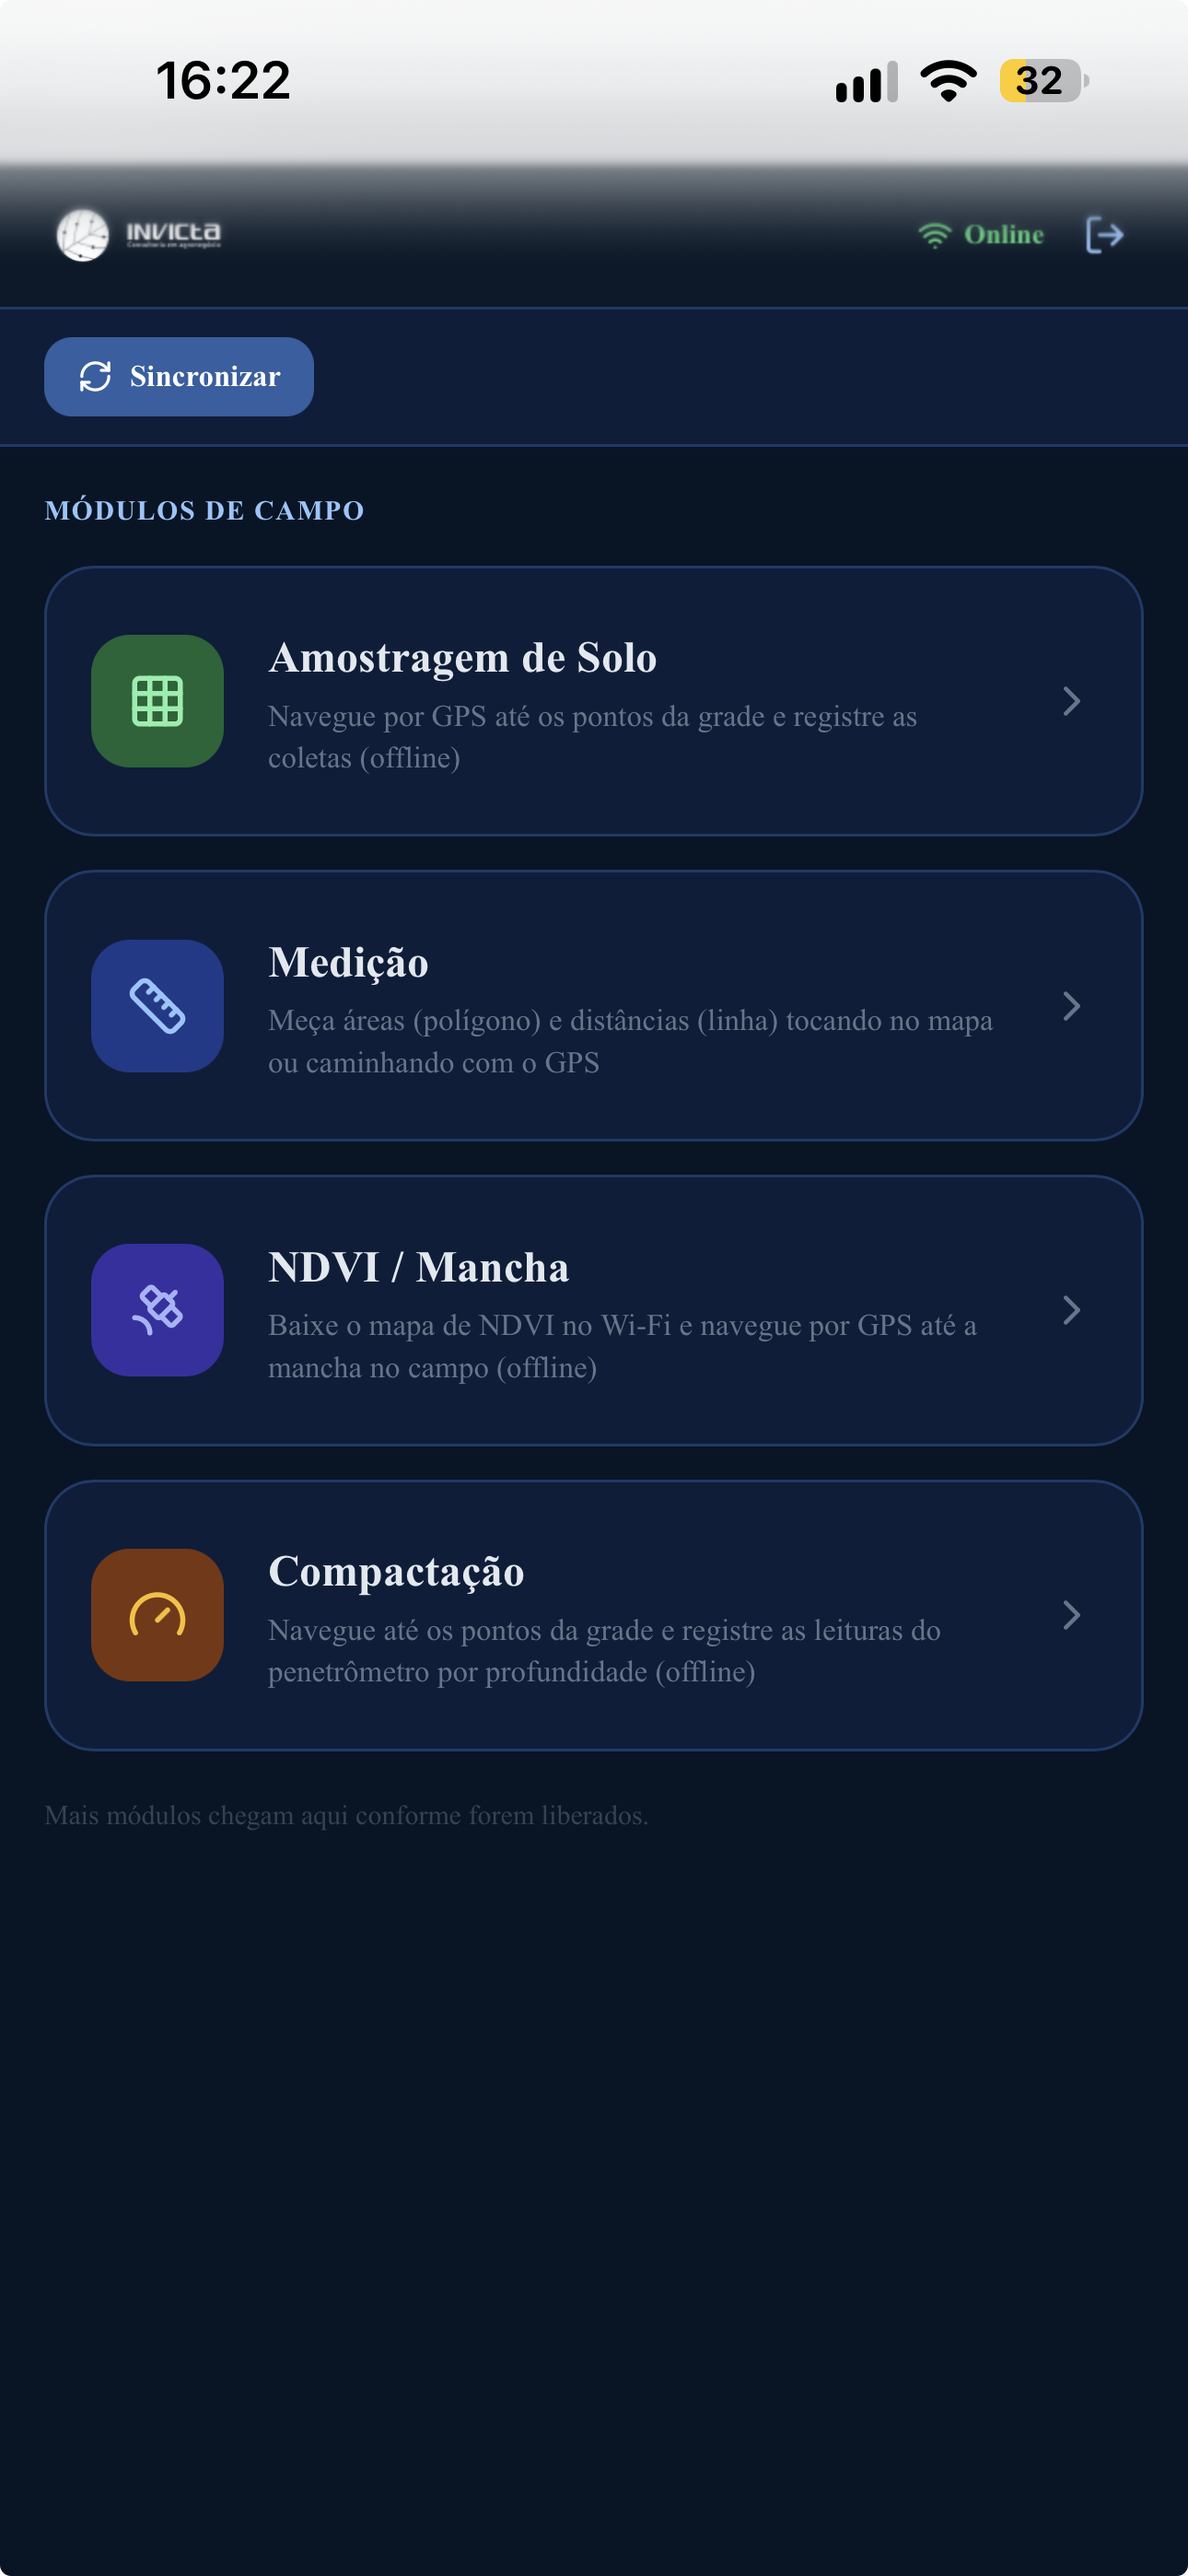
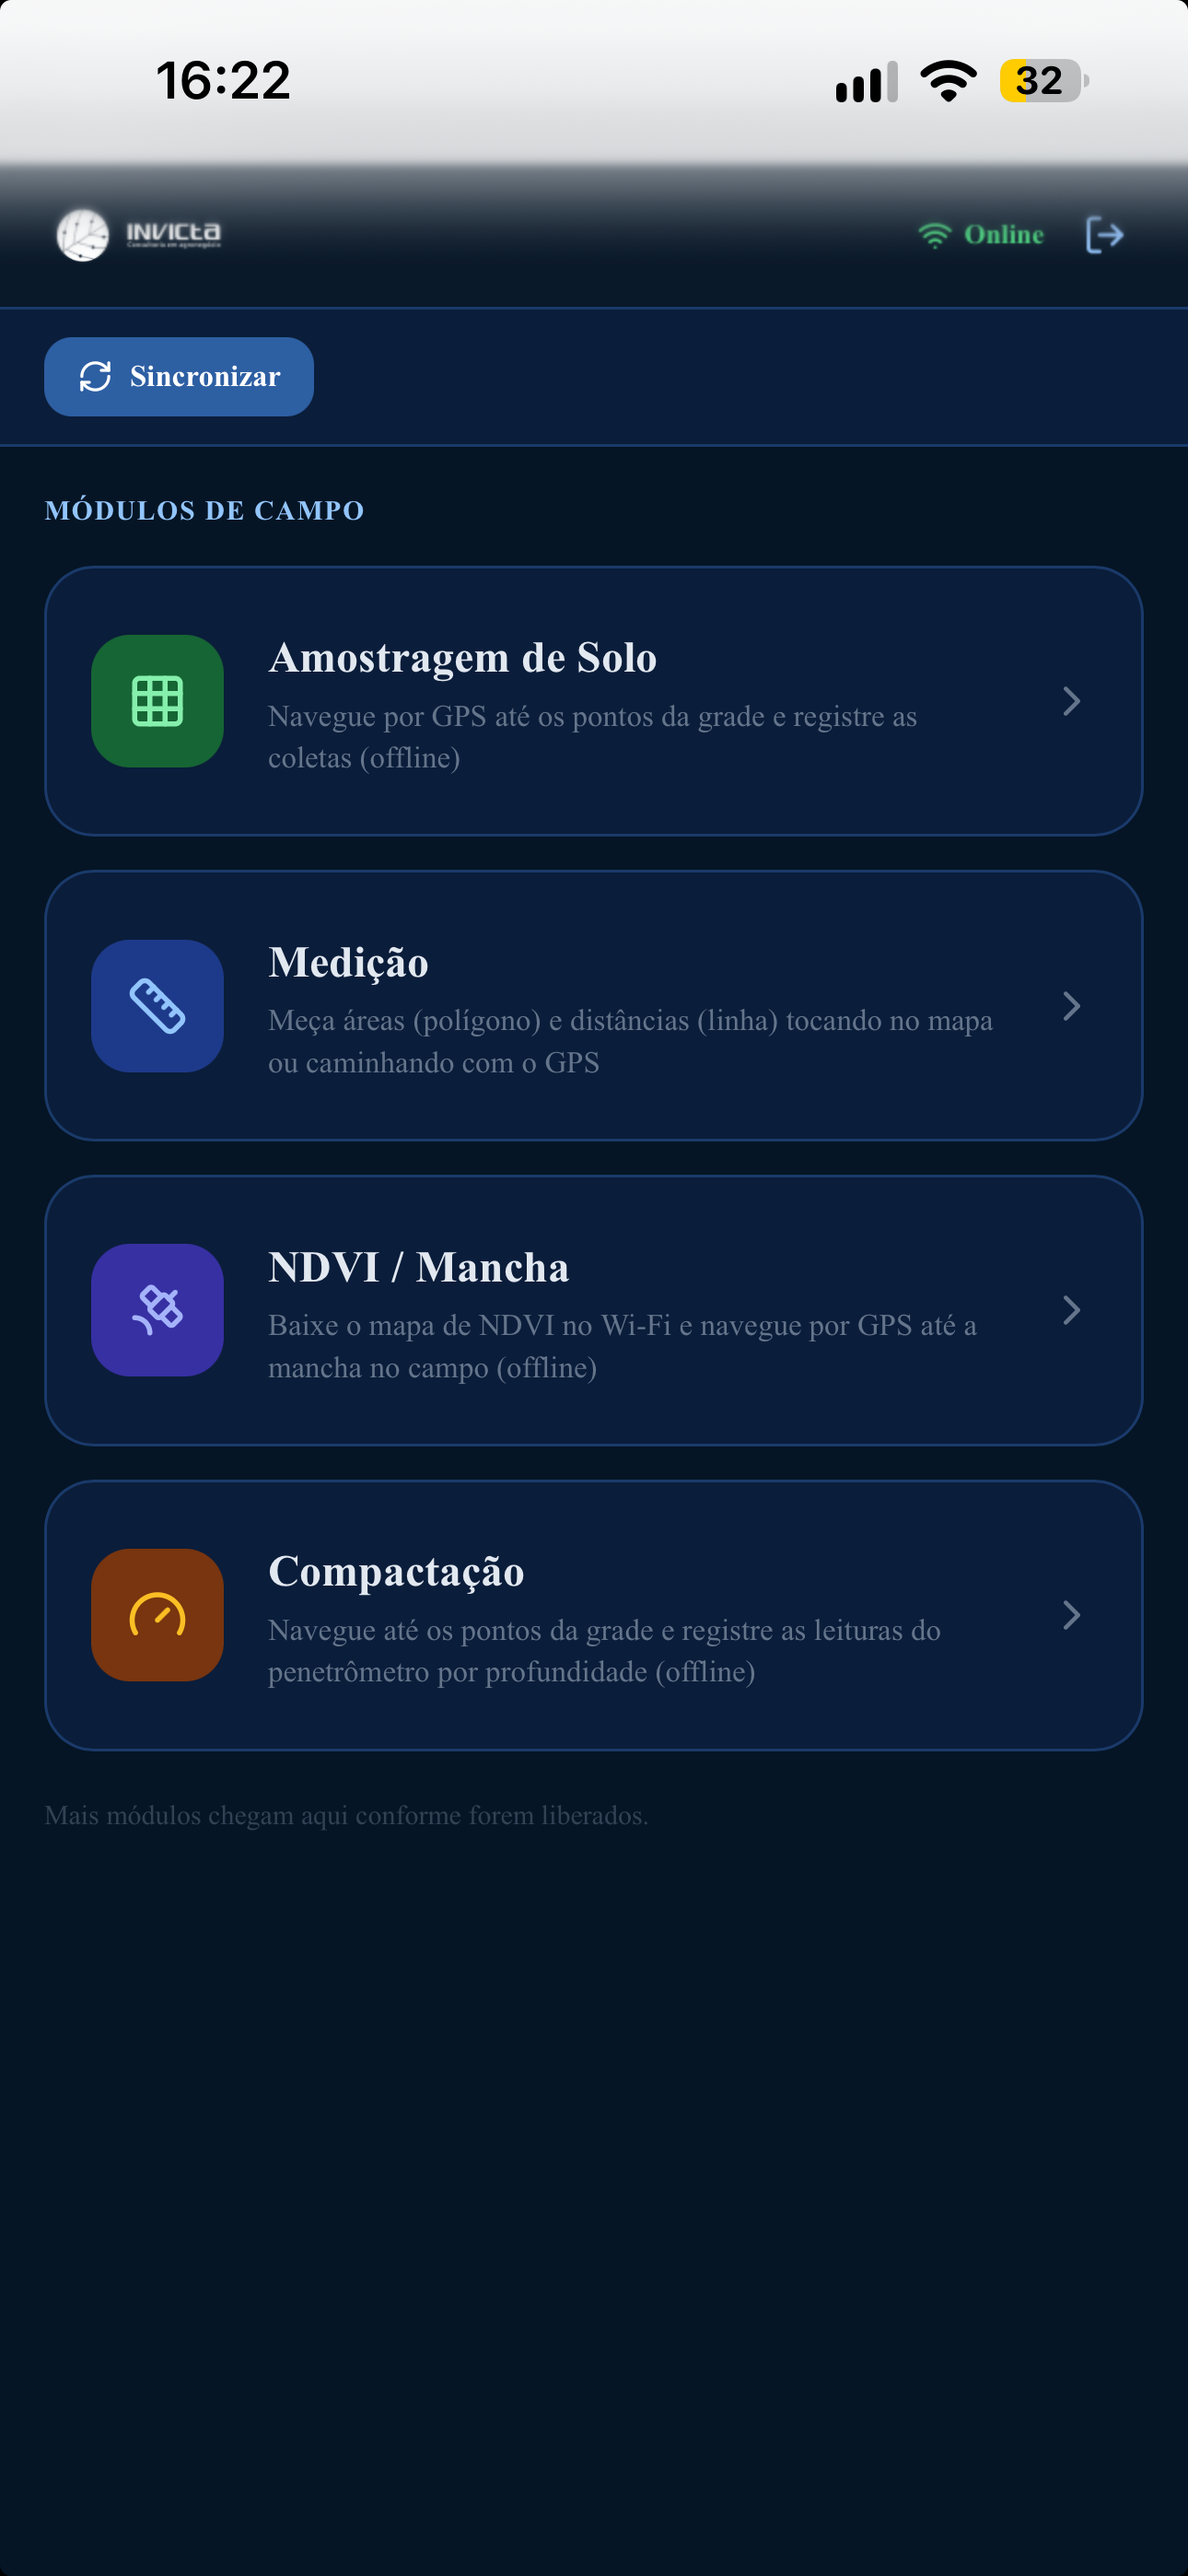
loja: capturas iOS sem canal alfa + ficha da App Store completa (falta só a build)
A Apple aceitou os PNGs no upload e depois marcou os quatro com erro de canal
alfa, o que travava o envio. Achatados para RGB e reenviados, na mesma ordem.

Preenchidos no App Store Connect: subtítulo, categorias (Negócios / Utilidades),
classificação etária 4+, direitos de conteúdo, preço gratuito e disponibilidade
só no Brasil. A validação do 'Adicionar para revisão' agora recusa apenas por
falta de compilação.

Changed region(s): [[0.062, 0.2489, 0.186, 0.3112], [0.8372, 0.0, 0.8682, 0.0622], [0.9922, 0.9957, 1.0, 1.0]]

diff --git a/loja/ficha-app-store.md b/loja/ficha-app-store.md
@@ -3,7 +3,7 @@
 Textos e respostas prontos para copiar no App Store Connect. Cada bloco diz onde
 ele entra. Os limites de caracteres são os que a loja impõe.
 
-## Estado no App Store Connect (17/09/2026)
+## Estado no App Store Connect (18/09/2026)
 
 ```
 Apple ID do app   6813176446
@@ -12,14 +12,36 @@ Time              ANQMNT4RTB (WR CONSULTORIA AGRICOLA SS)
 Versão            3.1.0 · Preparar para envio
 ```
 
+O "Adicionar para revisão" em 18/09 recusou **só** por falta de compilação —
+todo o resto passou na validação da Apple.
+
 | Já preenchido por lá | Falta |
 |---|---|
-| Texto promocional | **Senha da conta de revisão** (Informações para iniciar sessão) |
-| Descrição | **Privacidade do app** (Nutrition Labels — tabela abaixo) |
-| Palavras-chave | **Classificação etária** |
-| URL de suporte e de marketing | **Preços e disponibilidade** |
-| Versão (3.1.0) e Copyright | **Compilação** (Archive + upload pelo Xcode) |
-| **4 capturas de tela** (6,9 pol.) | **Remarcar o vínculo da fazenda demo** |
+| Texto promocional, descrição, palavras-chave | **Compilação** (Archive + upload pelo Xcode) |
+| URL de suporte e de marketing | **Remarcar o vínculo da fazenda demo** (antes do envio) |
+| Versão (3.1.0) e Copyright | Selecionar a build e **Adicionar para revisão** |
+| **4 capturas de tela** (6,9 pol., sem alfa) | |
+| Informações de revisão (login + senha da conta revisão) | |
+| Privacidade do app (publicada) | |
+| Subtítulo, categorias Negócios / Utilidades | |
+| Classificação etária **4+** (tudo "não/nenhum") | |
+| Direitos de conteúdo: **sim**, usa conteúdo de terceiros com direitos (imagens de satélite / NDVI) | |
+| Preço **gratuito**, disponível **só no Brasil** | |
+
+> **Por que só Brasil:** fora da UE não se aplica o Regulamento dos Serviços
+> Digitais (DSA), que pediria dados de "comerciante" publicados. Ampliar países
+> depois é um clique em Preços e disponibilidade.
+>
+> **Sem pendência de pagamento:** app gratuito não exige o contrato de apps
+> pagos nem dados bancários/fiscais. A assinatura do programa está ativa até
+> 15/09/2027.
+
+> **Armadilha das capturas — canal alfa.** Os prints do iPhone saíram como PNG
+> RGBA e a Apple os aceitou no upload, mas depois marcou os quatro com erro
+> ("As imagens não podem incluir canais alfa ou transparências") e o envio
+> travava com "ainda há carregamentos de capturas em andamento". Foram
+> achatados para RGB (sharp `flatten().removeAlpha()`) e reenviados. Conferir
+> com `sips -g hasAlpha arquivo.png` antes de subir.
 
 O equivalente do Google está em `ficha-play-store.md` — os textos são parecidos
 de propósito, mas **não são intercambiáveis**: a Apple tem campos que o Google
